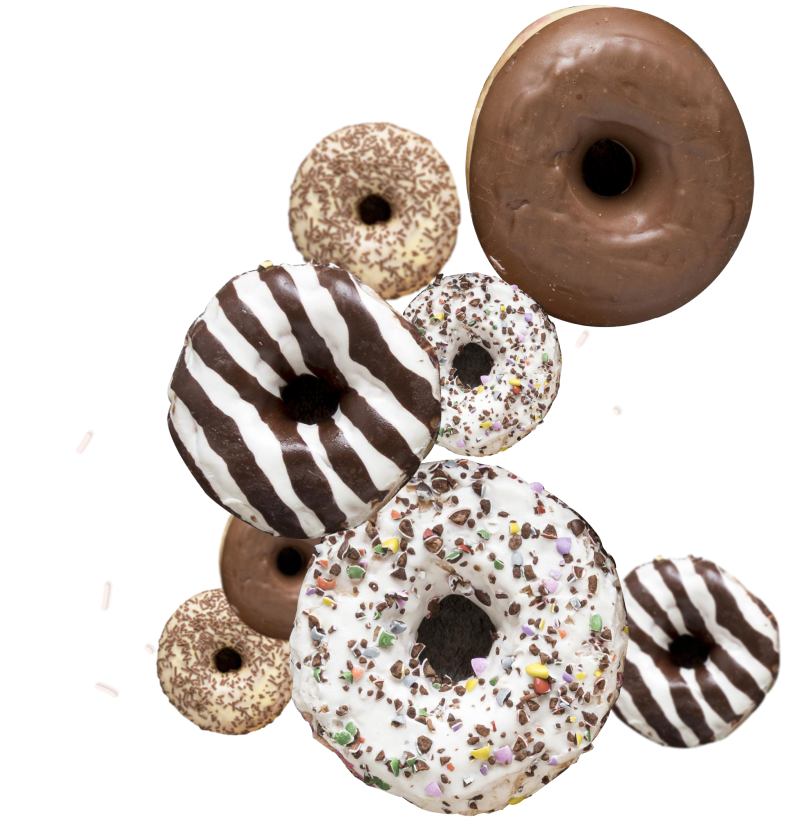
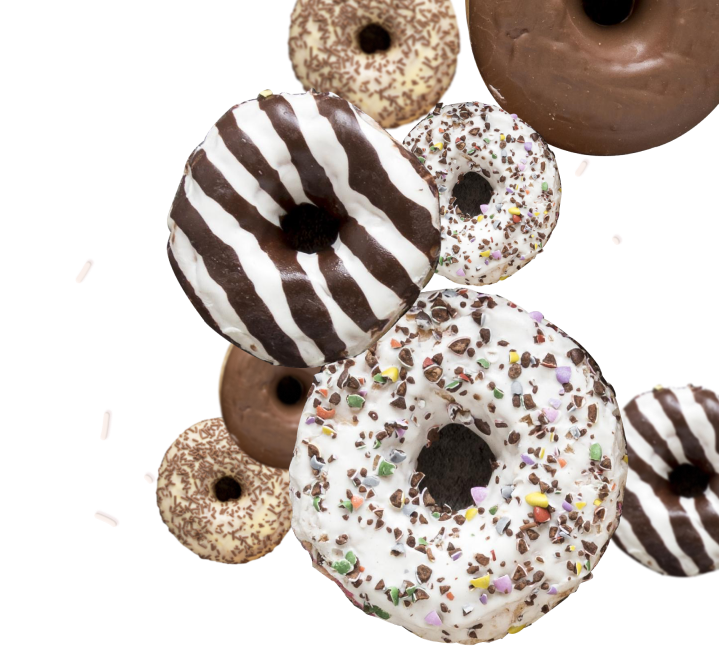
header img

diff --git a/src/sass/_header.scss b/src/sass/_header.scss
@@ -47,13 +47,12 @@
 }
 
 .logo-page {
-
   @media screen and (max-width: 767px) {
     margin-top: 7px;
     margin-bottom: 33px;
   }
 
-  @media screen and (min-width: 768px) and (max-width: 1279.98px) {
+  @media screen and (min-width: 767.98px) and (max-width: 1279.98px) {
     text-align: left;
     margin-top: 27px;
     margin-bottom: 10px;
@@ -105,7 +104,7 @@
   align-items: center;
   justify-content: right;
 
-  @media screen and (min-width: 768.98px) and (max-width: 1279.98px) {
+  @media screen and (min-width: 767.98px) and (max-width: 1279.98px) {
     // padding-left: 68px;
   }
 
@@ -126,11 +125,11 @@
     top: -6px;
     left: -12px;
 
-    animation: animateX50Y100 5000ms 1000ms;
+    // animation: animateX50Y100 5000ms 1000ms;
   }
 
   .bg-img::before {
-    content: "translate(-40px, -70px)";
+    content: 'translate(-40px, -70px)';
   }
 
   @keyframes animateX50Y100 {
@@ -151,22 +150,22 @@
     top: -35px;
     right: 137px;
 
-     animation: animateX50Y100 5000ms 1000ms;
+    animation: animateX50Y100 5000ms 1000ms;
   }
 
   .bg-img::before {
-    content: "translateY(100px)";
+    content: 'translateY(100px)';
   }
 
   @media screen and (min-width: 1280px) {
-    top: -171px;
-    right: -74px;
+    top: 0;
+    right: 0;
 
     animation: animateX50 4000ms 2900ms;
   }
 
   .bg-img::before {
-    content: "translate(-50px, -70px)";
+    content: 'translate(-50px, -70px)';
   }
 
   @keyframes animateX50 {
